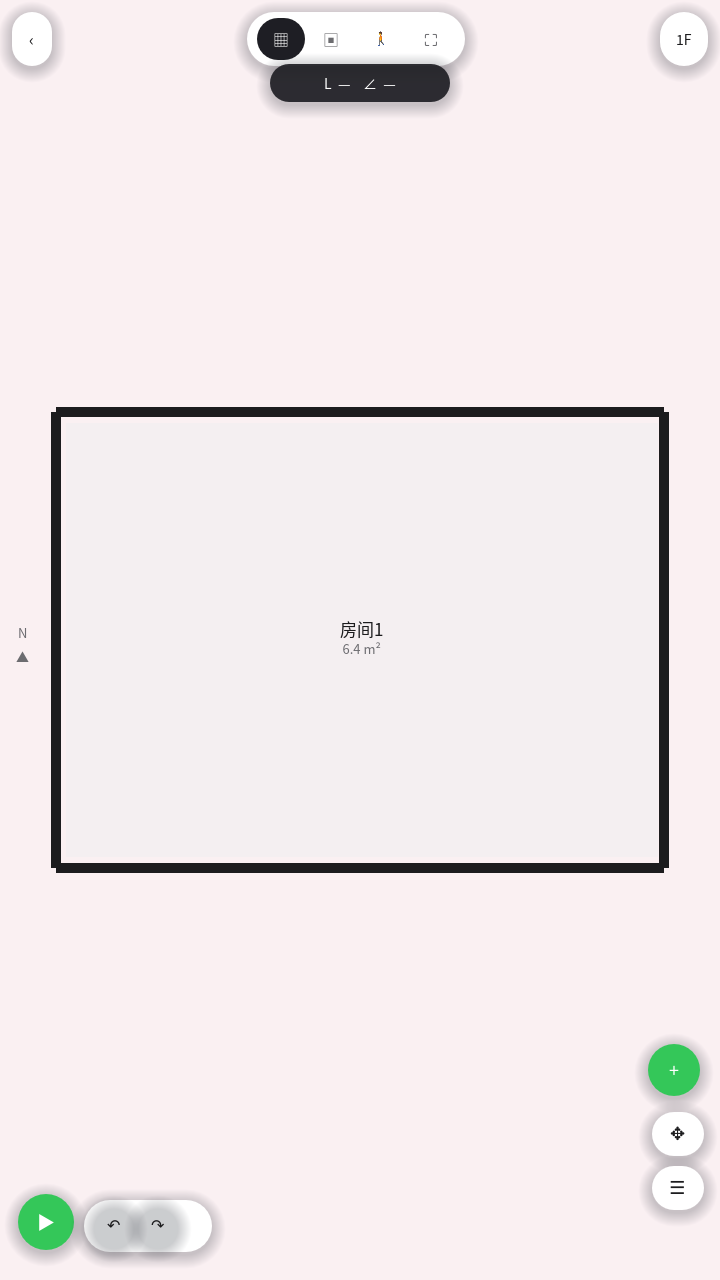
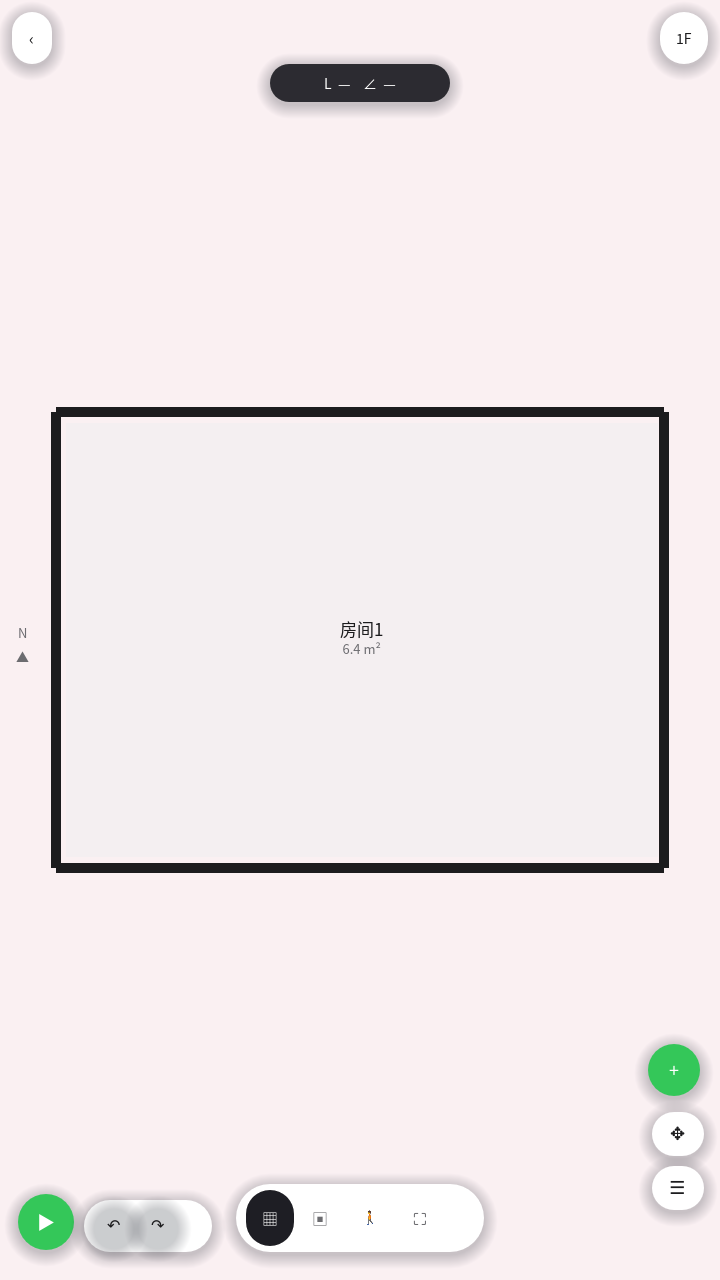
fix(ui): move edit view-mode pill to bottom (JoyPlan compass)
The four-icon ▦▣🚶⛶ capsule lives on 2D/3D as a bottom-centered
compass. Restore 自由绘制 header (返回/标题/完成) to the top.

diff --git a/docs/screenshots/free_draw/README.md b/docs/screenshots/free_draw/README.md
@@ -5,10 +5,10 @@
 | File | Screen |
 |------|--------|
 | [01_new_plan.png](./01_new_plan.png) | 新建户型 with 自由绘制 (no toast) |
-| [02_blank_canvas.png](./02_blank_canvas.png) | Empty draw mode — chrome at the **bottom** |
-| [03_rectangle.png](./03_rectangle.png) | Closed 4000×3000 mm rectangle — same bottom bar |
-| [04_edit_2d.png](./04_edit_2d.png) | Walls in the 2D editor |
-| [05_edit_3d.png](./05_edit_3d.png) | Same walls in 3D |
+| [02_blank_canvas.png](./02_blank_canvas.png) | Empty draw mode — header (返回 / 标题 / 完成) at the **top** |
+| [03_rectangle.png](./03_rectangle.png) | Closed 4000×3000 mm rectangle |
+| [04_edit_2d.png](./04_edit_2d.png) | 2D editor — four-icon view pill at the **bottom** |
+| [05_edit_3d.png](./05_edit_3d.png) | 3D editor — same compass pill at the **bottom** |
 
 Walls are SceneIR commands (`add_wall` / `move_wall` / `delete_wall` / `resize_wall`) via Session. Snap to axis and nearby endpoints. Length labels open the numeric sheet.
 
